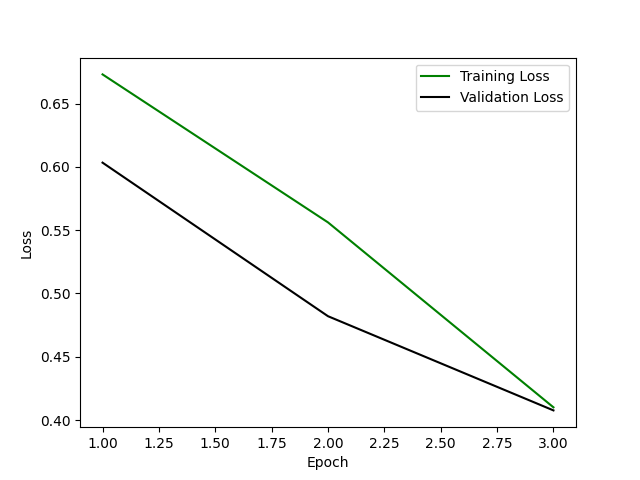
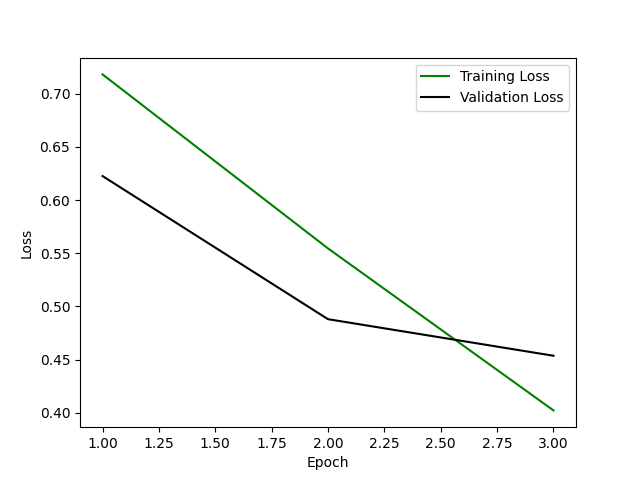
paper c: reclassifying dataset 3 SetFit

diff --git a/paper_b_99_dl_bert_train.py b/paper_b_99_dl_bert_train.py
@@ -16,8 +16,8 @@ from tqdm import tqdm
 from transformers import BertTokenizer, BertForSequenceClassification, get_linear_schedule_with_warmup
 
 from lib.utils import load_jsonl_file, save_row_to_jsonl_file, empty_json_file
+from lib.utils2 import balance_classes_in_dataset
 from lib.visualizations import plot_confusion_matrix
-
 
 # Initialize label map and class names
 LABEL_MAP = {"continue": 0, "not_continue": 1}
@@ -29,15 +29,15 @@ REVERSED_LABEL_MAP = {0: "continue", 1: "not_continue"}
 
 # Initialize constants
 MAX_LENGTH = 512  # the maximum sequence length that can be processed by the BERT model
-SEED = 14  # 42, 1234, 2021
+SEED = 42  # 42, 1234, 2021
 
 # Hyperparameters
-LEARNING_RATE = 2.4e-5  # 1.5e-5, 2e-5, 3e-5, 5e-5
+LEARNING_RATE = 1.9e-5  # 1.5e-5, 2e-5, 3e-5, 5e-5
 BATCH_SIZE = 16  # 16, 32
 NUM_EPOCHS = 3  # 2, 3, 4, 5
 WEIGHT_DECAY = 0.001  # 0.01 or 0.001
 DROP_OUT_RATE = 0.1  # 0.1 or 0.2
-WARMUP_STEPS = 556  # 0, 100, 1000, 10000
+WARMUP_STEPS = 400  # 0, 100, 1000, 10000
 
 
 def get_device():
@@ -98,24 +98,10 @@ set_seed(SEED)
 # Load and preprocess the dataset
 dataset = load_jsonl_file(data_file)
 
+# Balance dataset
+dataset = balance_classes_in_dataset(dataset, "continue", "not_continue", "label", SEED)
+
 counter = Counter([item['label'] for item in dataset])
-
-continue_class_counter = counter["continue"]
-not_continue_class_counter = counter["not_continue"]
-print("\nClass distribution:")
-print(f"- continue: {continue_class_counter}")
-print(f"- not_continue: {not_continue_class_counter}")
-
-random.shuffle(dataset)
-continue_class = [item for item in dataset if item['label'] == "continue"]
-not_continue_class = [item for item in dataset if item['label'] == "not_continue"]
-random.shuffle(not_continue_class)
-# trim 50% of continue_class
-continue_class = continue_class[:continue_class_counter // 2]
-
-print(f"continue (after trim) : {len(continue_class)}")
-
-dataset = continue_class + not_continue_class
 
 # Load the BERT tokenizer
 tokenizer = BertTokenizer.from_pretrained("bert-base-uncased")
@@ -128,9 +114,9 @@ labels = [LABEL_MAP[label] for label in labels]
 
 # Convert to pandas DataFrame for stratified splitting
 df = pd.DataFrame({
-    "id": [entry["id"] for entry in dataset],  # Include 'id'
-    "text": sentences,
-    "label": labels
+  "id": [entry["id"] for entry in dataset],  # Include 'id'
+  "text": sentences,
+  "label": labels
 })
 
 # Stratified split of the data to obtain the train and the remaining data
@@ -153,7 +139,6 @@ train_dataloader = DataLoader(train_dataset, shuffle=True, batch_size=BATCH_SIZE
 val_dataloader = DataLoader(val_dataset, shuffle=False, batch_size=BATCH_SIZE)
 test_dataloader = DataLoader(test_dataset, shuffle=False, batch_size=BATCH_SIZE)
 
-
 # Optimizer and Scheduler
 optimizer = optim.AdamW(model.parameters(), lr=LEARNING_RATE, weight_decay=WEIGHT_DECAY)
 total_steps = len(train_dataloader) * NUM_EPOCHS
@@ -164,7 +149,7 @@ scheduler = get_linear_schedule_with_warmup(optimizer,
 # scheduler = optim.lr_scheduler.StepLR(optimizer, step_size=5, gamma=0.5)
 
 # Initialize the gradient scaler only if the device is a GPU
-use_cuda = device.type == "cuda"
+use_cuda = device.type != "cpu"
 grad_scaler = None
 if use_cuda:
   grad_scaler = GradScaler()

diff --git a/lib/visualizations.py b/lib/visualizations.py
@@ -5,6 +5,8 @@ Functions to plot visualizations
 """
 import matplotlib.pyplot as plt
 from sklearn.metrics import confusion_matrix, ConfusionMatrixDisplay
+from spacy import displacy
+from bs4 import BeautifulSoup
 
 
 def plot_confusion_matrix(y_true, y_pred,
@@ -51,3 +53,30 @@ def plot_confusion_matrix(y_true, y_pred,
   # Save the plot to a file
   plt.savefig(f"images/{file_name}", format='png', bbox_inches='tight', dpi=300)
   plt.close()
+
+
+def plot_dependency_visualization(sentence, output_path, nlp):
+
+  # Process the sentence using the model
+  doc = nlp(sentence)
+
+  dep_options = {
+    "bg": False,
+    "collapse_phrases": True,
+    "collapse_punct": True,
+    "distance": 175,
+    "add_lemma": True,
+    "fine_grained": True,
+    "offset_x": 100
+  }
+  # Generate dependency parse using displacy
+  svg = displacy.render(doc, style="dep", options=dep_options, jupyter=False)
+
+  # Save the SVG to a file
+  with open(output_path, "w", encoding="utf-8") as file:
+    file.write(svg)
+
+  # Find and print the ROOT of the sentence
+  for token in doc:
+    if token.dep_ == "ROOT":
+      print(f"ROOT: {token.text} ({token.lemma_}) - POS: {token.pos_}")

diff --git a/paper_a_x_dl_bert_train.py b/paper_a_x_dl_bert_train.py
@@ -5,8 +5,8 @@ import numpy as np
 import pandas as pd
 import torch
 import torch.optim as optim
-from sklearn.metrics import (confusion_matrix, roc_auc_score, matthews_corrcoef,
-                             accuracy_score, precision_recall_fscore_support)
+from sklearn.metrics import (confusion_matrix, roc_auc_score, matthews_corrcoef, accuracy_score,
+                             precision_recall_fscore_support)
 from sklearn.model_selection import train_test_split
 from sklearn.utils.class_weight import compute_class_weight
 from torch.cuda.amp import GradScaler, autocast

diff --git a/_visualize_dep.py b/_visualize_dep.py
@@ -1,0 +1,10 @@
+import spacy
+from lib.visualizations import plot_dependency_visualization
+
+nlp = spacy.load("en_core_web_trf")
+
+sentence = "Employers are really, really happy."
+output_path = "images/dependency_visualization.vsg"
+print("Plotting dependency visualization...")
+plot_dependency_visualization(sentence, output_path, nlp)
+print("Done!")
